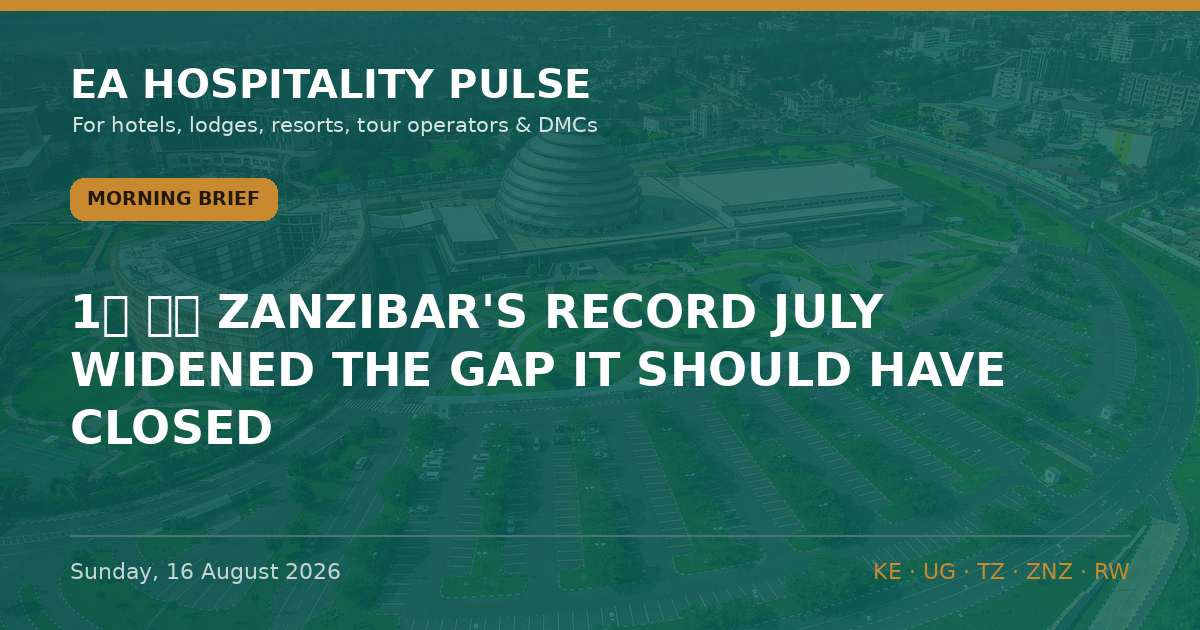
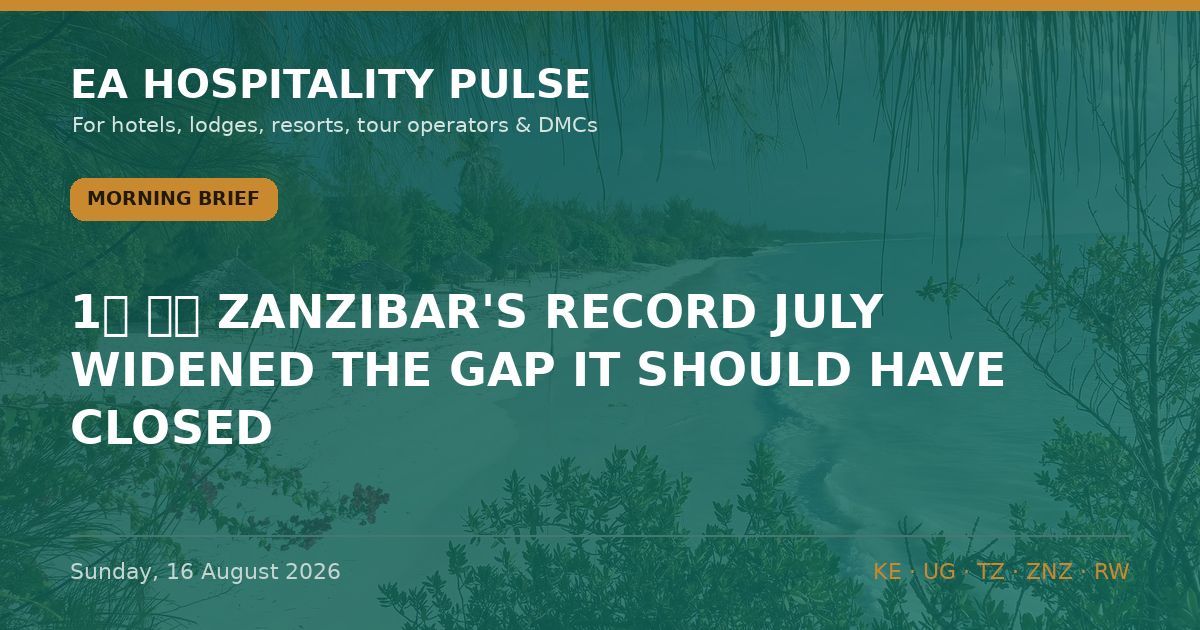
Auto-build: 2026-08-16 05:36 UTC

diff --git a/editions/pulse-2026-08-16-morning.html b/editions/pulse-2026-08-16-morning.html
@@ -73,7 +73,7 @@ footer.s{text-align:center;color:var(--muted);font-family:Helvetica Neue,Arial,s
 <div class="wrap">
   <article class="art">
     <img class="hero" src="../og/pulse-2026-08-16-morning-clean.png" alt="Morning Brief — Sunday, 16 August 2026" loading="eager">
-    
+    <p class="hcredit">Photo: Rod Waddington · <a href="https://commons.wikimedia.org/wiki/File:Pakachi_Beach_in_Sansibar.jpg" target="_blank" rel="noopener nofollow">Wikimedia Commons</a> · <a href="https://creativecommons.org/licenses/by-sa/2.0" target="_blank" rel="noopener nofollow">CC BY-SA 2.0</a></p>
     <a class="nav" href="../index.html#archive">← All editions</a>
     <div class="kicker"><span class="badge">Morning Brief</span><time datetime="2026-08-16">Sunday, 16 August 2026</time></div>
     <h1>1⃣ 🇹🇿 ZANZIBAR&#x27;S RECORD JULY WIDENED THE GAP IT SHOULD HAVE CLOSED.</h1>

diff --git a/index.html b/index.html
@@ -352,7 +352,7 @@
   .pl-brand{font-family:'Helvetica Neue',Arial,sans-serif;font-size:12px;font-weight:600;color:var(--muted);background:var(--sand-2);padding:2px 8px;border-radius:20px;margin-left:4px;white-space:nowrap}
   .pl-detail{font-size:14px;color:var(--muted);margin:6px 0 8px;line-height:1.55}
 </style>
-<!--BUILD_STAMP:20260816-0835--></head>
+<!--BUILD_STAMP:20260816-0535--></head>
 <body>
 <header class="site">
   <div class="wrap topbar">

diff --git a/data.js b/data.js
@@ -1879,4 +1879,4 @@ window.INSIGHTS = [
   "editionKey": "evening"
  }
 ];
-window.BUILT_AT = "2026-08-16 08:35";
+window.BUILT_AT = "2026-08-16 05:35";

diff --git a/ledger.js b/ledger.js
@@ -1,5 +1,5 @@
 window.LEDGER = {
- "updated": "2026-08-16 08:35",
+ "updated": "2026-08-16 05:36",
  "stats": {
   "total": 83,
   "open": 67,
